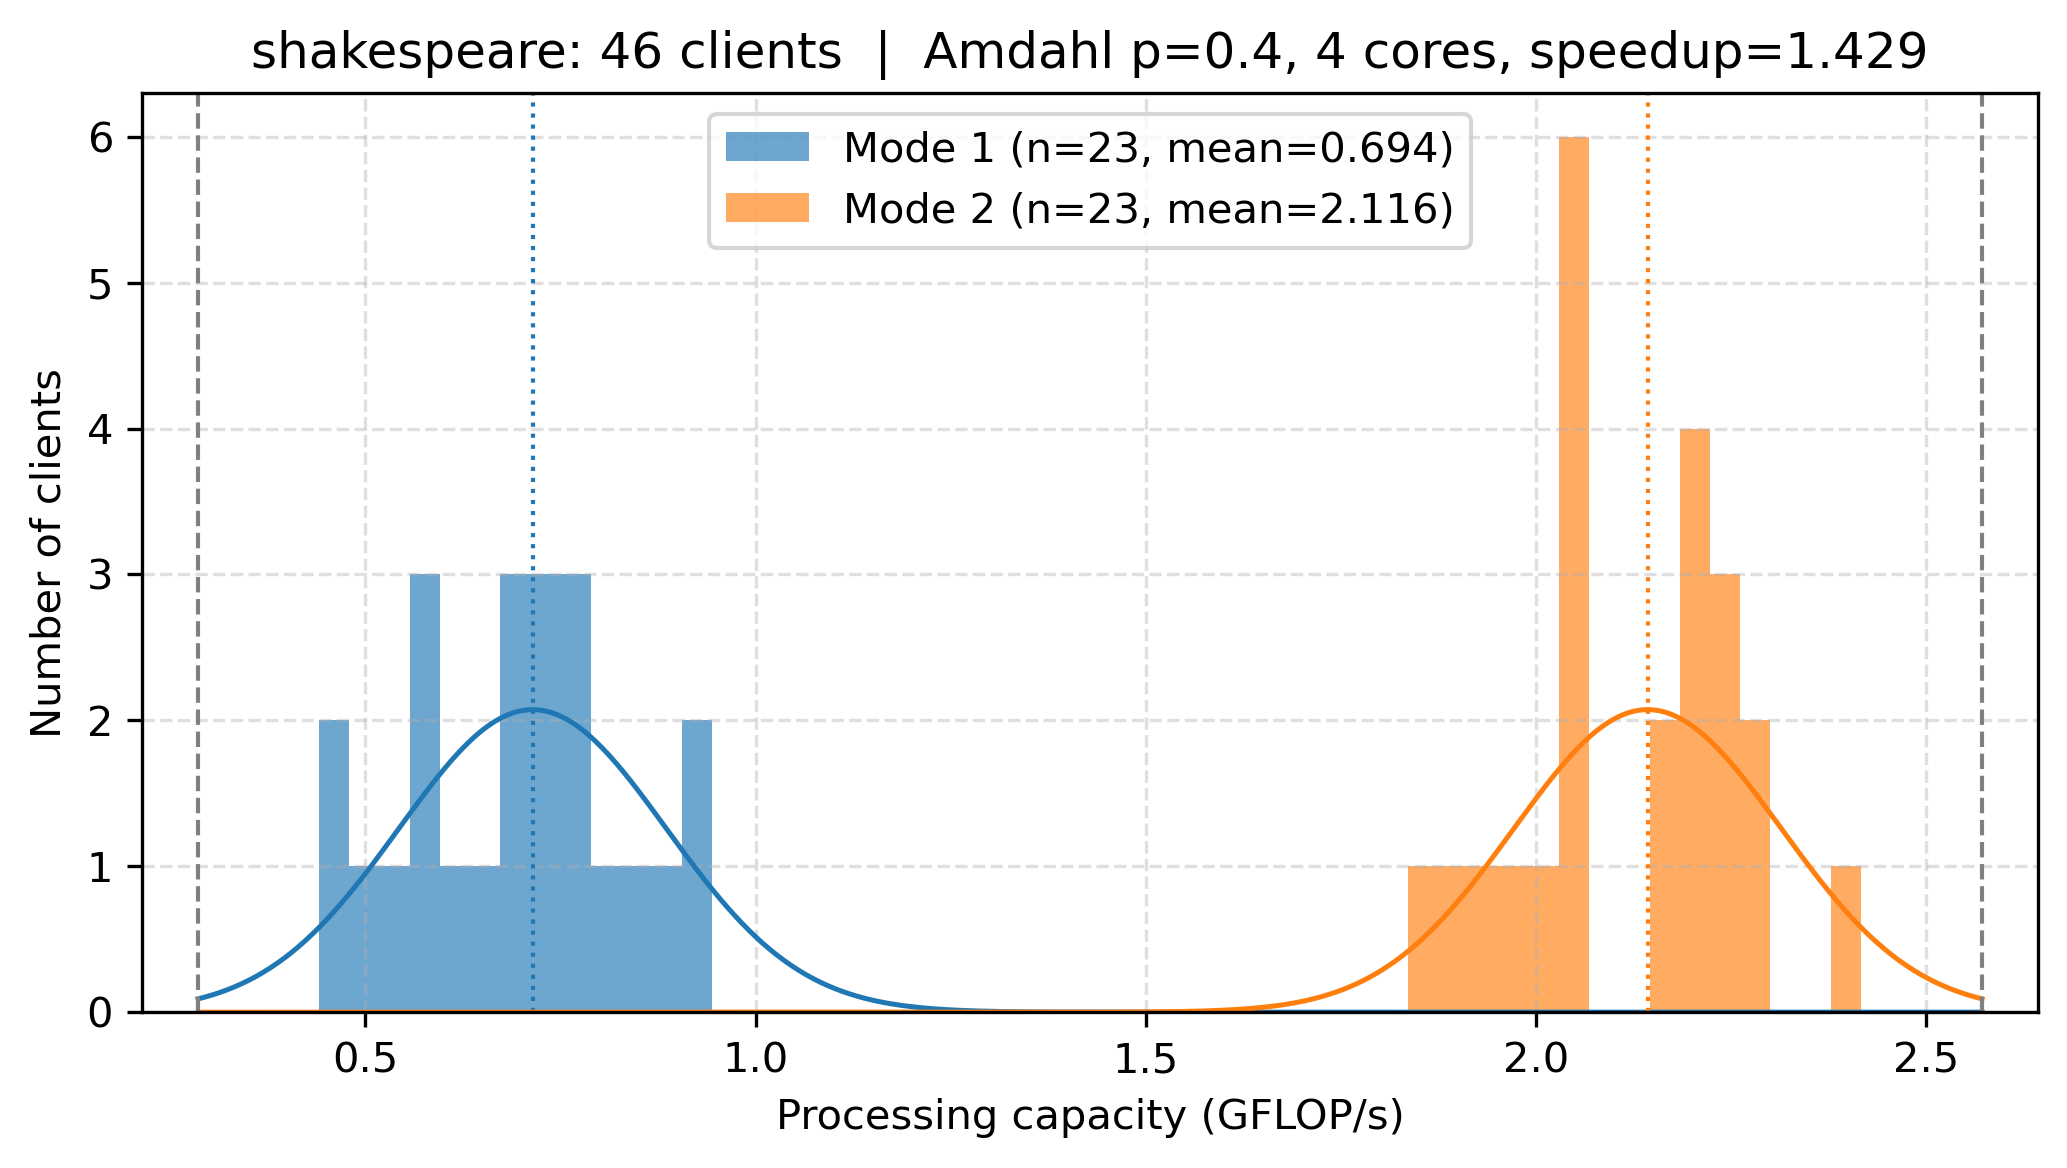
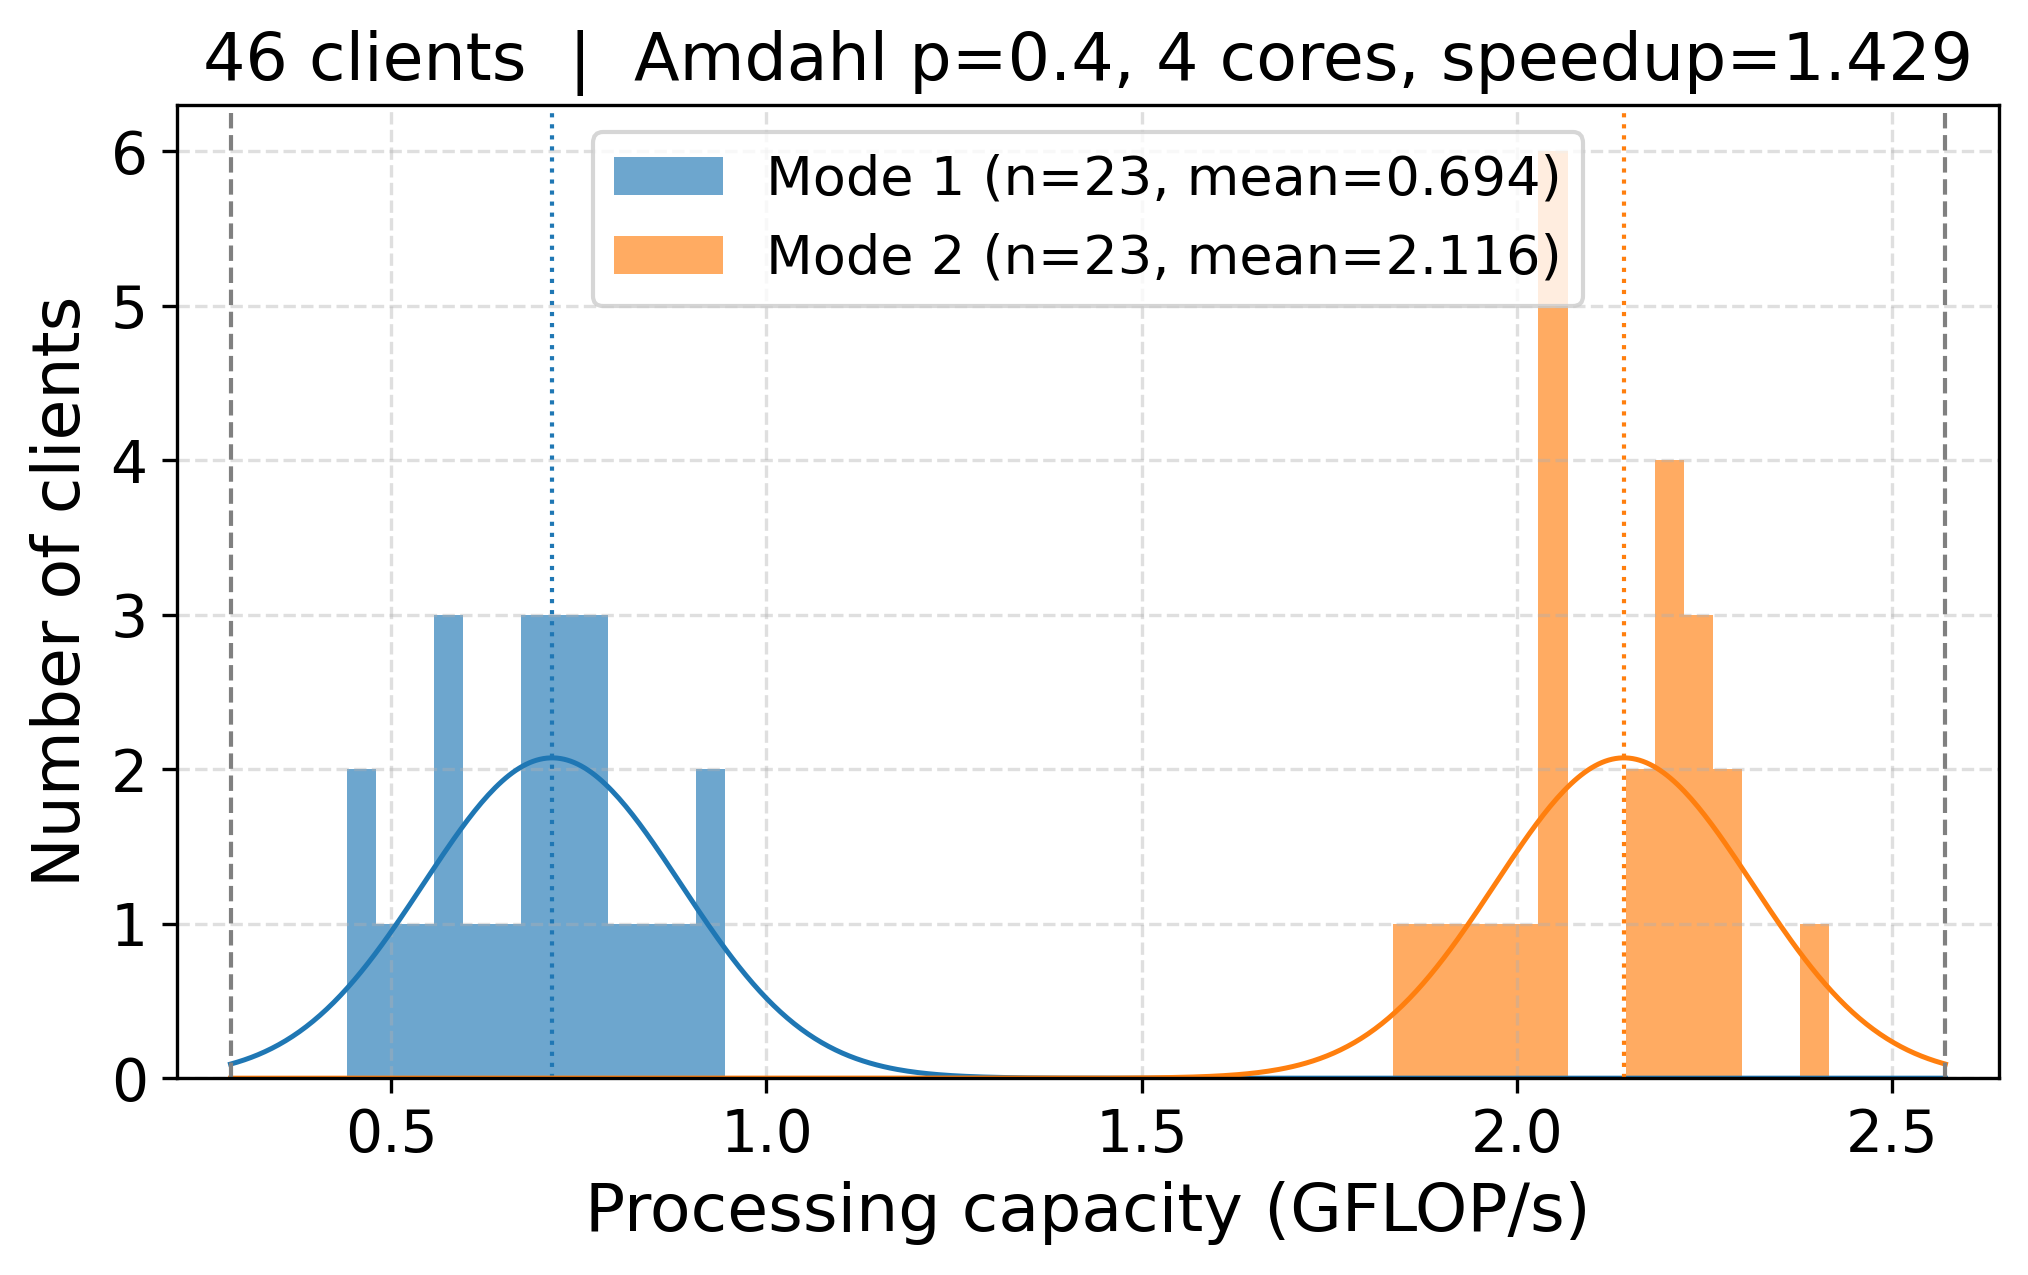
merge update

diff --git a/traces/generate_bimodal_traces.py b/traces/generate_bimodal_traces.py
@@ -33,6 +33,16 @@ import numpy as np
 import pandas as pd
 
 
+plt.rcParams.update({
+    "font.size": 14,
+    "axes.labelsize": 16,
+    "axes.titlesize": 16,
+    "xtick.labelsize": 14,
+    "ytick.labelsize": 14,
+    "legend.fontsize": 13
+})
+
+
 # ============================ CONFIGURACION ============================
 
 AMDAHL = True          # <-- la flag: True aplica la ley de Amdahl
@@ -139,7 +149,7 @@ def graficar(capacidades, speedup, salida, titulo):
     ancho = bins[1] - bins[0]
     x = np.linspace(minimo, maximo, 500)
 
-    plt.figure(figsize=(7, 4))
+    plt.figure(figsize=(7, 4.5))
     for modo, media, std, color in [
             (1, MODE1_MEAN * speedup, MODE1_STD * speedup, "tab:blue"),
             (2, MODE2_MEAN * speedup, MODE2_STD * speedup, "tab:orange")]:
@@ -205,7 +215,7 @@ def main():
         capacidades.to_csv(SALIDA / f"capacities_{clave}.csv", index=False,
                            float_format="%.6f")
 
-        titulo = f"{clave}: {len(capacidades)} clients"
+        titulo = f"{len(capacidades)} clients"
         if AMDAHL:
             titulo += f"  |  Amdahl p={p_dataset}, {CORES} cores, speedup={speedup:.3f}"
         graficar(capacidades, speedup, graficas / f"capacity_{clave}.png", titulo)

diff --git a/leaf-sync/plots_2026/plot_total_computing_time.py b/leaf-sync/plots_2026/plot_total_computing_time.py
@@ -55,7 +55,7 @@ def end_time_at_or_before_round(end_times: pd.Series, target_round: int) -> floa
 # Plot 1: 4 barras por época (65/70/74 + 1000 rounds) em minutos
 # ============================================================
 def plot_training_time_bars(epochs, t65_sec, t70_sec, t74_sec, t1000_sec, scenario=""):
-    plt.figure(figsize=(11, 6))
+    plt.figure(figsize=(7.5, 5))
 
     x = np.arange(len(list(epochs)))
     width = 0.20
@@ -71,7 +71,9 @@ def plot_training_time_bars(epochs, t65_sec, t70_sec, t74_sec, t1000_sec, scenar
     bars74   = plt.bar(x + 0.5 * width, t74_m,   width, label="Accuracy 74%")
     # bars1000 = plt.bar(x + 1.5 * width, t1000_m, width, label="1000 Rounds")
 
-    plt.title("Total computing time to reach a target accuracy / 1000 Rounds in a" + f" ({scenario.capitalize()} Scenario)")
+    # plt.title("Total computing time to reach a target accuracy / 1000 Rounds in a" + f" ({scenario.capitalize()} Scenario)")
+    plt.title("Total computing time to reach a target accuracy")
+
     plt.xlabel("Epochs")
     plt.ylabel("Time (min)")
     plt.ylim(1, 65)
